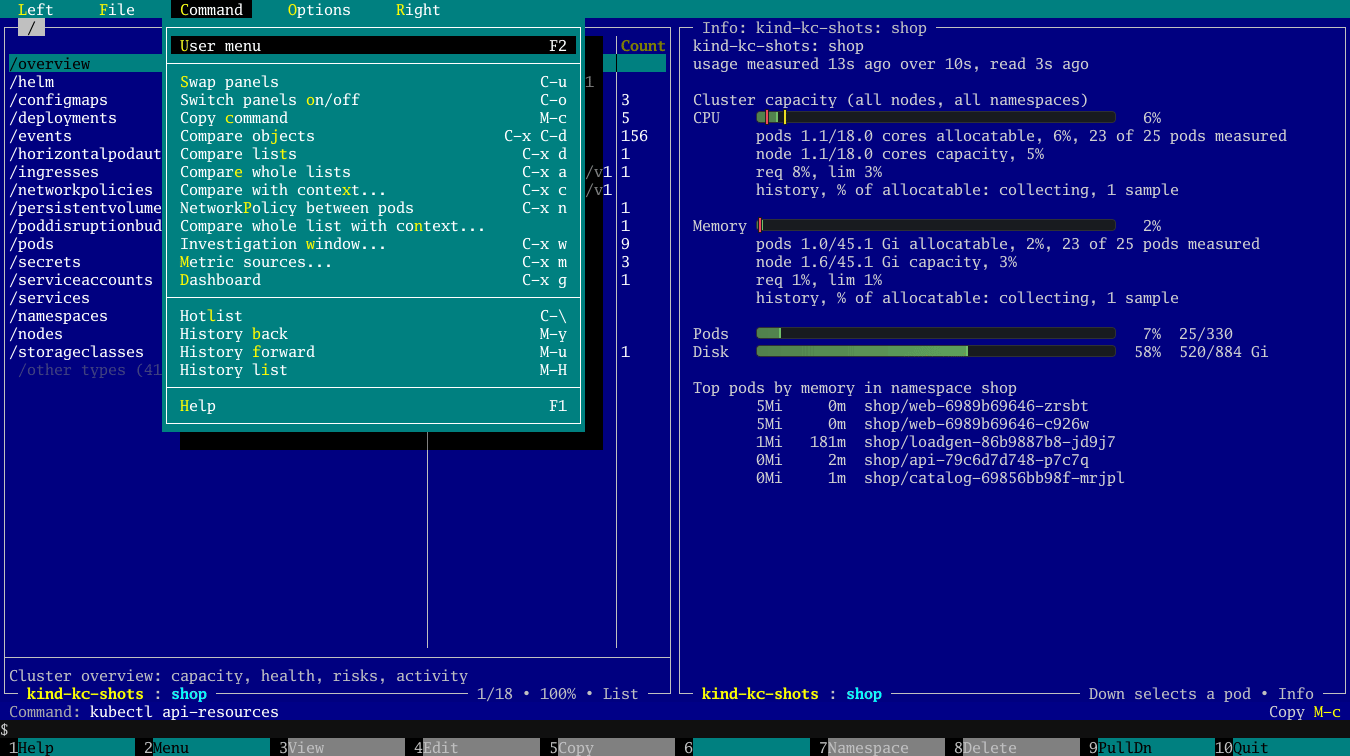
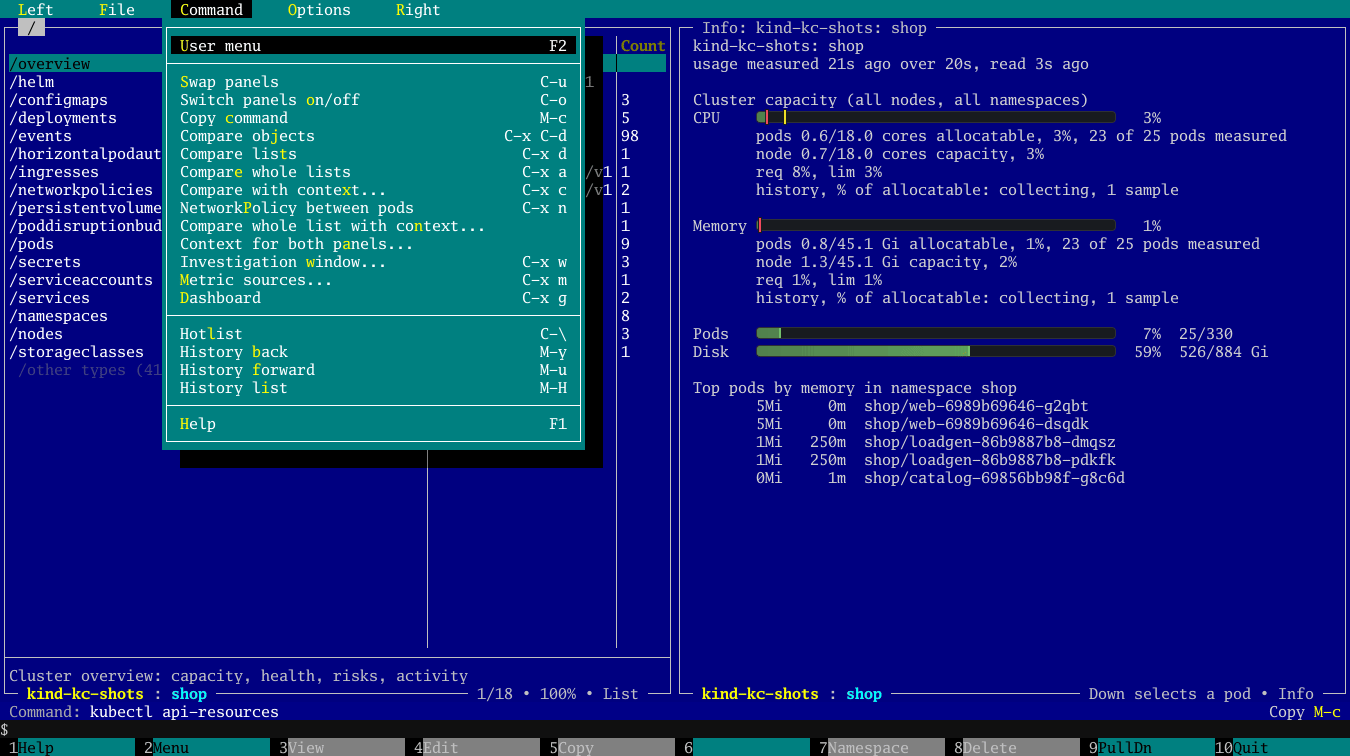
screenshots: show two panels in two contexts
panels/23-two-contexts shows the left panel in the kind context and
shop next to the right panel in the mirror context and batch, which
the scene's config makes read-only, so the frames show both contexts
and the RO marker of one. capture.sh takes extra config lines from a
scene through extra_config.

The context picker now names its panel, the Command menu has "Context
for both panels..." and a cluster action's confirmation names its
context, so panels/02-contexts, menus/03-command,
investigation/03-command-menu and drain/03-confirm are captured again.

diff --git a/screenshots/panels/README.md b/screenshots/panels/README.md
@@ -6,7 +6,7 @@ The root of a context: resource groups with their API version and object count. 
 
 ![](01-root.png)
 
-The context picker. `F9`, Left, Context... (`t`).
+The context picker of the left panel; only that panel switches. `F9`, Left, Context... (`t`).
 
 ![](02-contexts.png)
 
@@ -89,3 +89,7 @@ Inside a Helm release: values, manifest, notes, its resources and the stored rev
 The port forward dialog on a pod. `M-p`, or `F9`, File, Port forward.
 
 ![](22-port-forward.png)
+
+Two contexts side by side: the left panel in the kind context and `shop`, the right one in the mirror context, read-only by the config (`RO` in its frame), and `batch`. `F9`, Right, Context... (`t`) switches only the right panel; Namespace... (`n`) then picks its namespace.
+
+![](23-two-contexts.png)

diff --git a/screenshots/drain/README.md b/screenshots/drain/README.md
@@ -10,7 +10,7 @@ The drain options, with emptyDir data allowed for a pod that keeps data in one. 
 
 ![](02-options.png)
 
-The confirmation: what the drain evicts, the PodDisruptionBudgets and the same `kubectl drain` command. Enter.
+The confirmation: the context, what the drain evicts, the PodDisruptionBudgets and the same `kubectl drain` command. Enter.
 
 ![](03-confirm.png)
 
